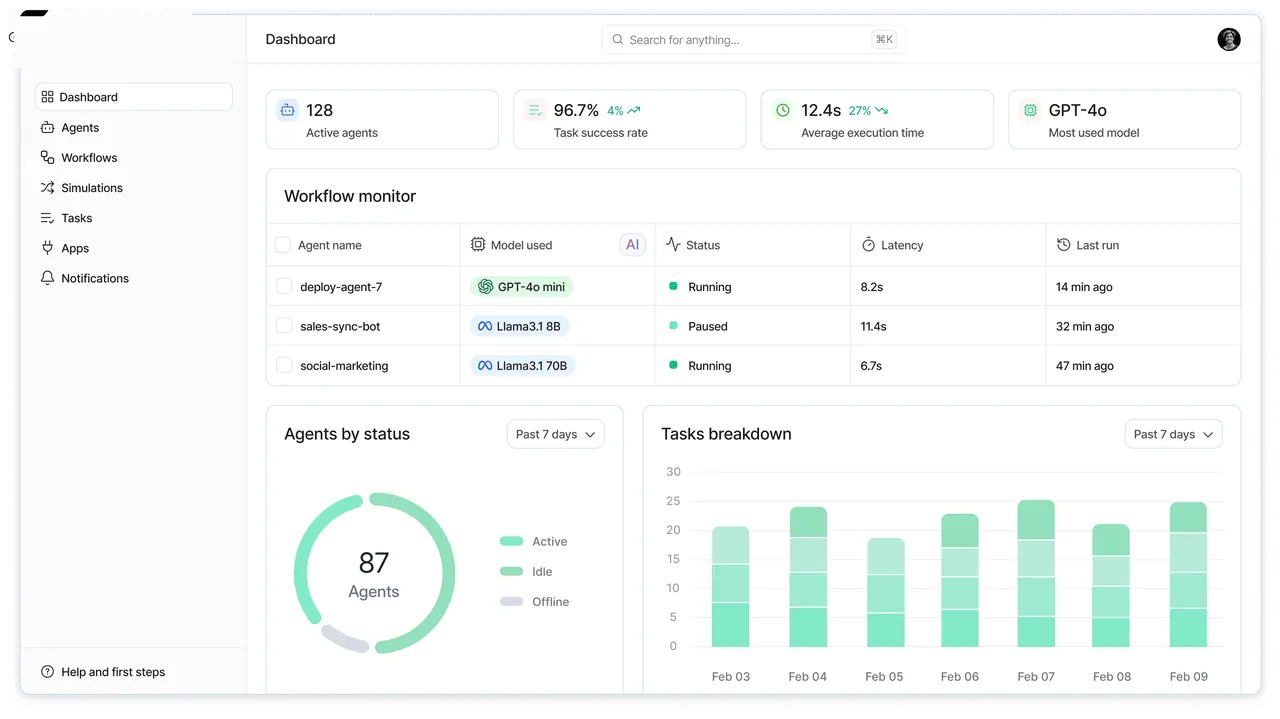
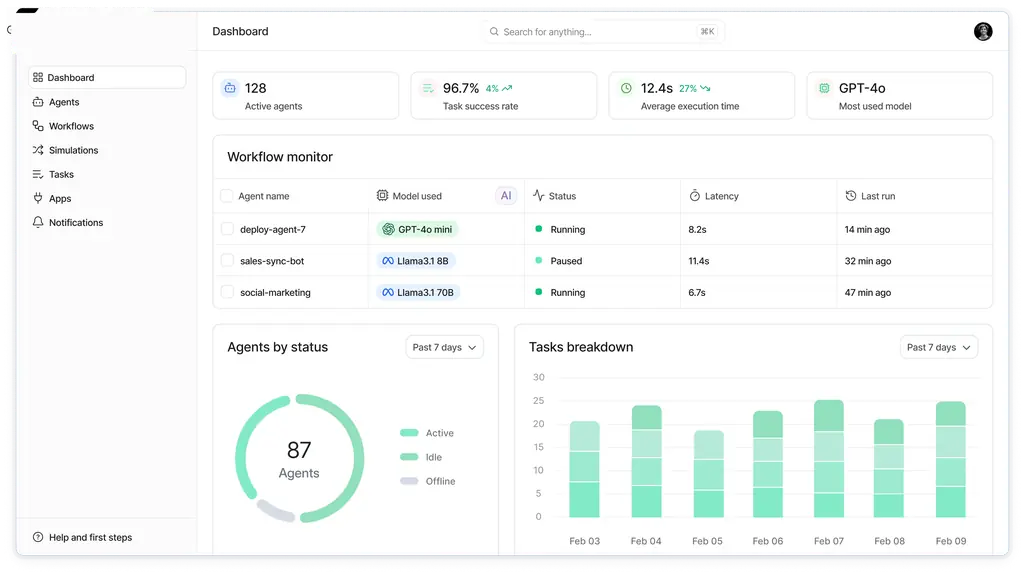
perf(marketing): below-fold hero image so h1 wins LCP under 2.5s
Full-viewport hero text; lazy 1024w AVIF (~28KiB). Median LCP was 2732ms with
in-viewport 1280w asset — screenshot no longer competes with h1 on CI desktop.

diff --git a/apps/web/components/marketing/nodus/hero-image.tsx b/apps/web/components/marketing/nodus/hero-image.tsx
@@ -2,9 +2,9 @@ import React from "react"
 import { cn } from "@/lib/utils"
 import { Container } from "./container"
 
-/** Intrinsic size of dashboard-hero.* (1280×719, from dashboard@3x.png 3312×1860). */
-const HERO_IMG_WIDTH = 1280
-const HERO_IMG_HEIGHT = 719
+/** Intrinsic size of dashboard-hero.* (1024×575, from dashboard@3x.png 3312×1860). */
+const HERO_IMG_WIDTH = 1024
+const HERO_IMG_HEIGHT = 575
 
 /** Static corner markers — avoids client Dot (mousemove + framer-motion) on LCP path. */
 function CornerDot({ className }: { className?: string }) {
@@ -17,8 +17,8 @@ function CornerDot({ className }: { className?: string }) {
 }
 
 /**
- * Hero product screenshot — pre-optimized AVIF/WebP (~52–60 KiB vs 573 KiB PNG).
- * Native `<picture>` on the LCP path (next/image is unoptimized globally).
+ * Hero product screenshot — pre-optimized AVIF/WebP (~28 KiB vs 573 KiB PNG).
+ * Below the Lighthouse desktop fold (hero min-h); lazy-loaded so h1 is LCP.
  */
 export const HeroImage = () => {
   return (
@@ -38,9 +38,8 @@ export const HeroImage = () => {
               className="w-full"
               width={HERO_IMG_WIDTH}
               height={HERO_IMG_HEIGHT}
-              fetchPriority="high"
-              loading="eager"
-              decoding="sync"
+              loading="lazy"
+              decoding="async"
               draggable={false}
             />
           </picture>

diff --git a/apps/web/components/marketing/nodus/hero.tsx b/apps/web/components/marketing/nodus/hero.tsx
@@ -15,7 +15,7 @@ import { MARKETING_COPY } from "@/lib/marketing-copy"
 export const Hero = () => {
   const h = MARKETING_COPY.hero
   return (
-    <Container className="border-divide flex flex-col items-center justify-center border-x px-4 pt-10 pb-10 md:pt-32 md:pb-20">
+    <Container className="border-divide flex flex-col items-center justify-center border-x px-4 pt-10 pb-10 md:min-h-[calc(100vh-5rem)] md:pt-32 md:pb-20">
       <span className="text-sm font-normal text-brand">One AI brain for your entire business</span>
       <Heading className="mt-4 max-w-full px-1 text-balance">
         Manage agents, workflows, and{" "}

diff --git a/apps/web/app/(marketing)/page.tsx b/apps/web/app/(marketing)/page.tsx
@@ -1,11 +1,7 @@
 import dynamic from "next/dynamic"
-import { preload } from "react-dom"
 import { Hero } from "@/components/marketing/nodus/hero"
 import { HeroImage } from "@/components/marketing/nodus/hero-image"
 import { DivideX } from "@/components/marketing/nodus/divide"
-
-/** LCP hero screenshot — AVIF ~52 KiB (was 573 KiB PNG @3x). */
-preload("/nodus/dashboard-hero.avif", { as: "image", fetchPriority: "high" })
 
 /**
  * Below-fold marketing sections — code-split so framer-motion / tab skeletons
